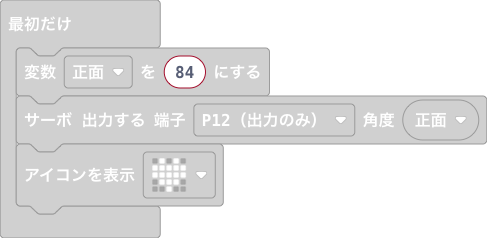
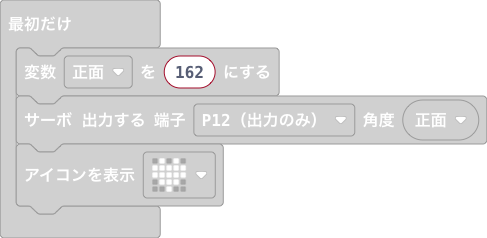
更新 main.blocks, main.ts

Changed region(s): [[0.3388, 0.1765, 0.5852, 0.4118]]

diff --git a/main.ts b/main.ts
@@ -18,7 +18,7 @@ function 止まる () {
     pins.digitalWritePin(DigitalPin.P14, 0)
     pins.digitalWritePin(DigitalPin.P13, 0)
 }
-let 正面 = 84
+let 正面 = 162
 pins.servoWritePin(AnalogPin.P12, 正面)
 basic.showIcon(IconNames.Heart)
 basic.forever(function () {
